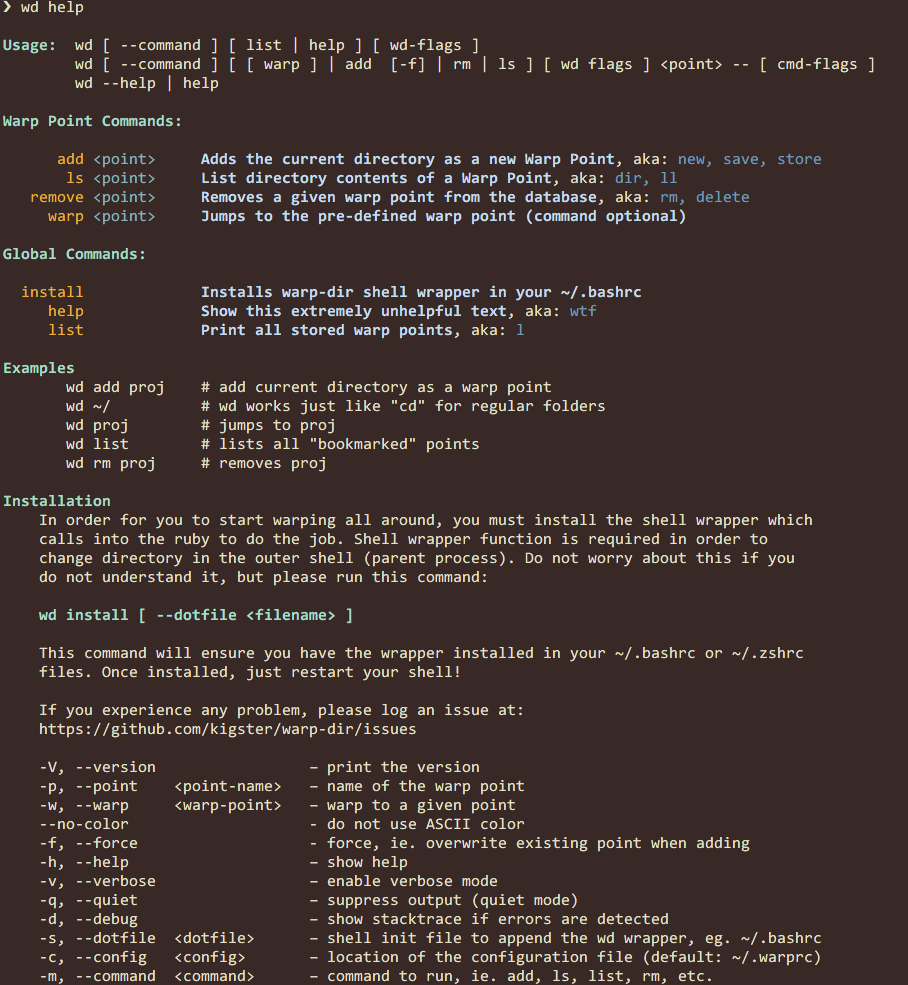
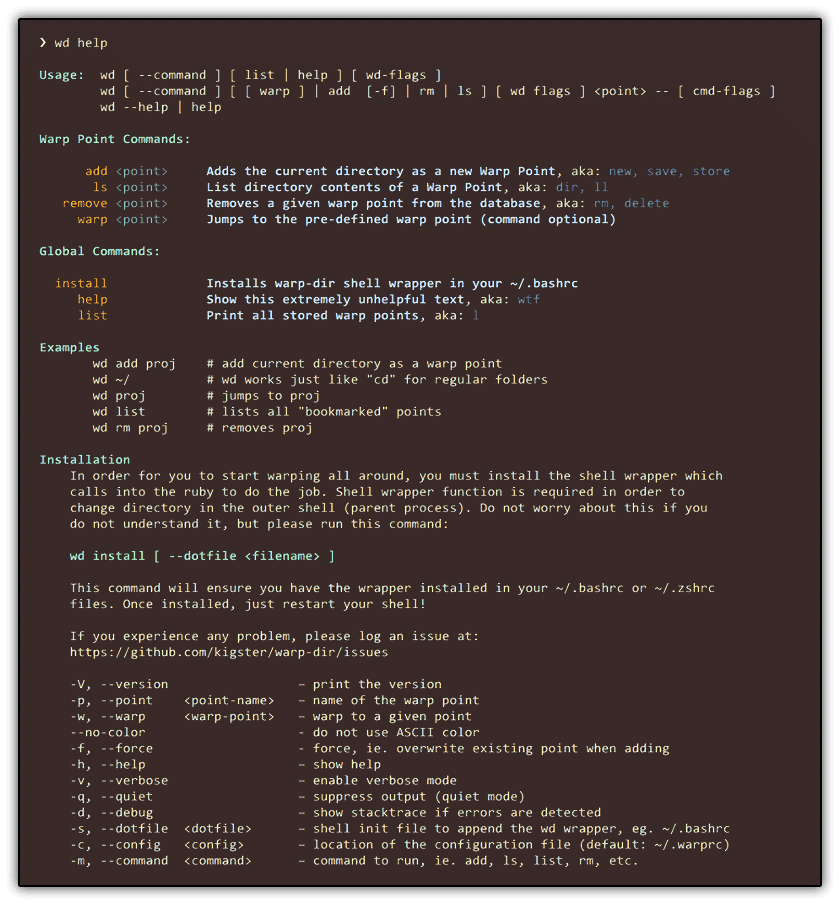
Updating image

diff --git a/README.md b/README.md
@@ -43,7 +43,7 @@ Three steps:
 $ gem install warp-dir --no-ri --no-rdoc
 ```
 
- - [ ] The last step is to install the `wd` BASH function and auto-completion. This step appends the required shell function to your shell initialization file, that is specified with the `--dotfile` flag. 
+ - The last step is to install the `wd` BASH function and auto-completion. This step appends the required shell function to your shell initialization file, that is specified with the `--dotfile` flag. 
 
 ```bash
 $ warp-dir install --dotfile ~/.bash_profile
@@ -57,7 +57,7 @@ $ wd help
 
 If the above command returns a properly formatted help that looks like the image below, your setup is now complete!
 
-![Image](doc/wd-help.png)
+![Image](doc/wd-help.png?refresh=1)
 
 
 ## Usage
